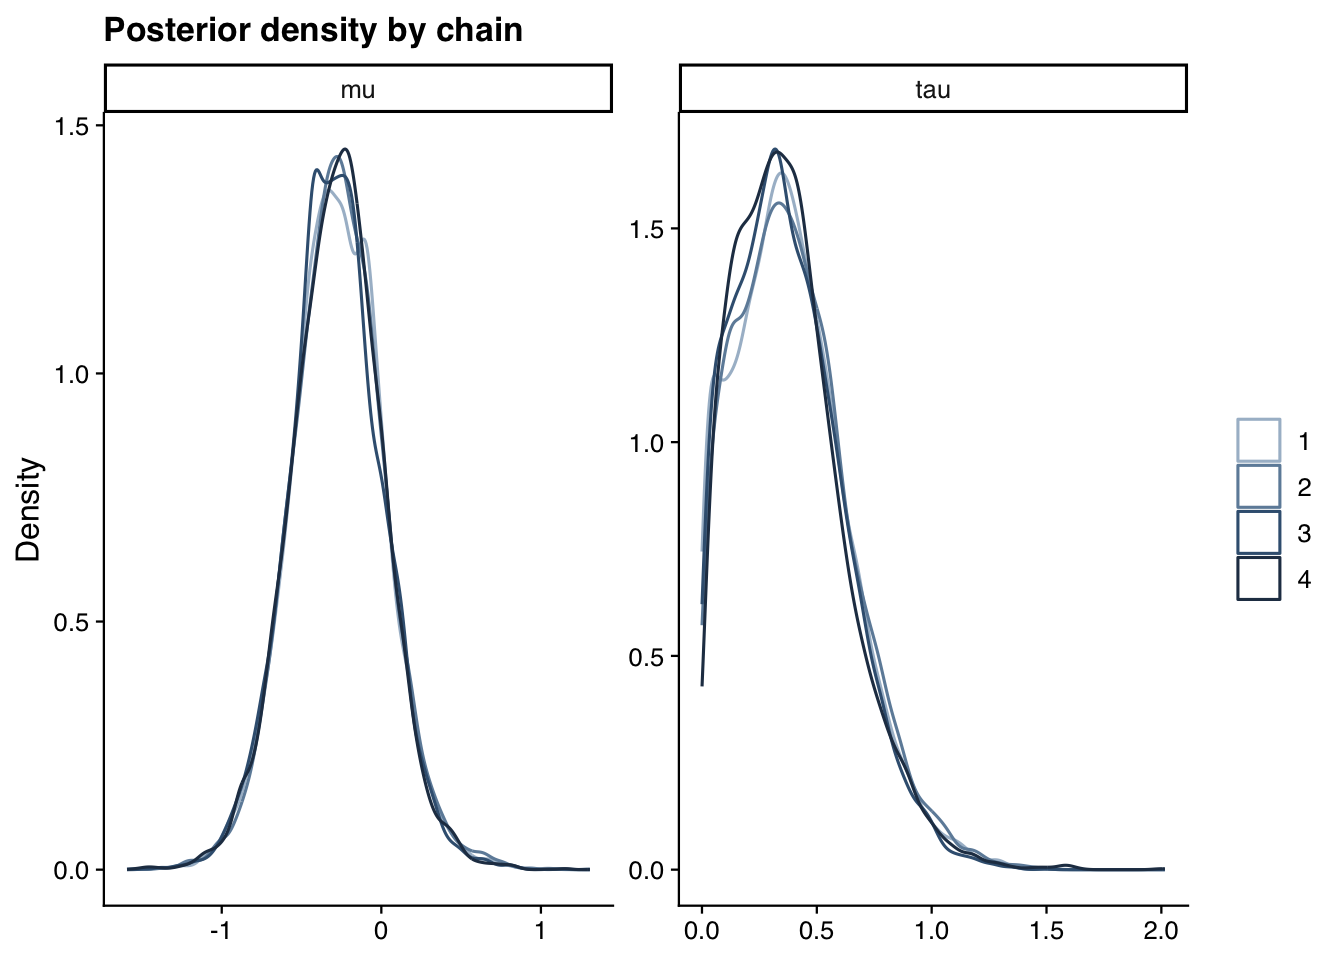
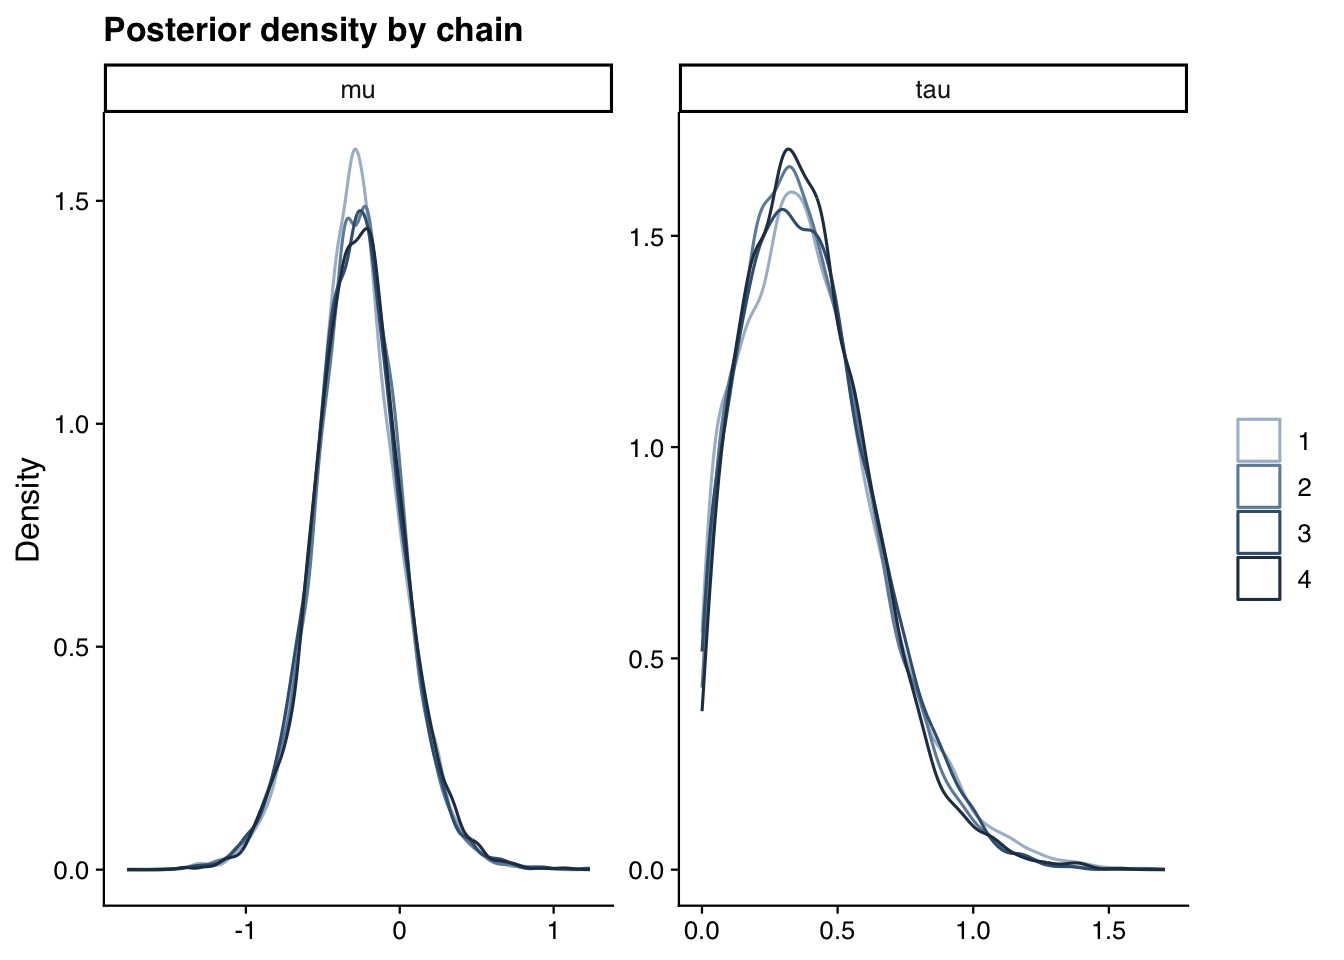
Built site for gh-pages

diff --git a/risk-of-bias.html b/risk-of-bias.html
@@ -389,19 +389,20 @@ Warning
 <span id="cb3-5"><a href="#cb3-5" aria-hidden="true" tabindex="-1"></a>         <span class="at">domain =</span> <span class="fu">factor</span>(domain, <span class="at">levels =</span> <span class="fu">names</span>(domain_labels), <span class="at">labels =</span> domain_labels),</span>
 <span id="cb3-6"><a href="#cb3-6" aria-hidden="true" tabindex="-1"></a>         <span class="at">study =</span> <span class="fu">factor</span>(study, <span class="at">levels =</span> <span class="fu">rev</span>(<span class="fu">c</span>(<span class="st">"Qi2025"</span>,<span class="st">"Xu2025"</span>,<span class="st">"Lu2017"</span>,<span class="st">"Jin2019"</span>,<span class="st">"Qi2023"</span>,<span class="st">"Li2024a"</span>))))</span>
 <span id="cb3-7"><a href="#cb3-7" aria-hidden="true" tabindex="-1"></a></span>
-<span id="cb3-8"><a href="#cb3-8" aria-hidden="true" tabindex="-1"></a>pal <span class="ot">&lt;-</span> <span class="fu">c</span>(<span class="at">Low =</span> jama_blue_grey[[<span class="st">"light"</span>]], <span class="at">Moderate =</span> jama_blue_grey[[<span class="st">"medium"</span>]],</span>
-<span id="cb3-9"><a href="#cb3-9" aria-hidden="true" tabindex="-1"></a>         <span class="at">Serious =</span> jama_blue_grey[[<span class="st">"steel"</span>]], <span class="at">Critical =</span> jama_blue_grey[[<span class="st">"accent"</span>]])</span>
-<span id="cb3-10"><a href="#cb3-10" aria-hidden="true" tabindex="-1"></a></span>
-<span id="cb3-11"><a href="#cb3-11" aria-hidden="true" tabindex="-1"></a><span class="fu">ggplot</span>(rob_long, <span class="fu">aes</span>(domain, study, <span class="at">fill =</span> judgment)) <span class="sc">+</span></span>
-<span id="cb3-12"><a href="#cb3-12" aria-hidden="true" tabindex="-1"></a>  <span class="fu">geom_tile</span>(<span class="at">color =</span> <span class="st">"white"</span>, <span class="at">linewidth =</span> <span class="dv">1</span>) <span class="sc">+</span></span>
-<span id="cb3-13"><a href="#cb3-13" aria-hidden="true" tabindex="-1"></a>  <span class="fu">geom_text</span>(<span class="fu">aes</span>(<span class="at">label =</span> <span class="fu">substr</span>(judgment, <span class="dv">1</span>, <span class="dv">1</span>),</span>
-<span id="cb3-14"><a href="#cb3-14" aria-hidden="true" tabindex="-1"></a>                <span class="at">color =</span> judgment <span class="sc">%in%</span> <span class="fu">c</span>(<span class="st">"Serious"</span>, <span class="st">"Critical"</span>)), <span class="at">size =</span> <span class="fl">3.4</span>, <span class="at">fontface =</span> <span class="st">"bold"</span>) <span class="sc">+</span></span>
-<span id="cb3-15"><a href="#cb3-15" aria-hidden="true" tabindex="-1"></a>  <span class="fu">scale_fill_manual</span>(<span class="at">values =</span> pal, <span class="at">name =</span> <span class="st">"Concern"</span>) <span class="sc">+</span></span>
-<span id="cb3-16"><a href="#cb3-16" aria-hidden="true" tabindex="-1"></a>  <span class="fu">scale_color_manual</span>(<span class="at">values =</span> <span class="fu">c</span>(<span class="st">`</span><span class="at">TRUE</span><span class="st">`</span> <span class="ot">=</span> <span class="st">"white"</span>, <span class="st">`</span><span class="at">FALSE</span><span class="st">`</span> <span class="ot">=</span> <span class="st">"#243B53"</span>), <span class="at">guide =</span> <span class="st">"none"</span>) <span class="sc">+</span></span>
-<span id="cb3-17"><a href="#cb3-17" aria-hidden="true" tabindex="-1"></a>  <span class="fu">labs</span>(<span class="at">x =</span> <span class="cn">NULL</span>, <span class="at">y =</span> <span class="cn">NULL</span>, <span class="at">title =</span> <span class="st">"Preliminary ROBINS-I traffic-light plot"</span>,</span>
-<span id="cb3-18"><a href="#cb3-18" aria-hidden="true" tabindex="-1"></a>       <span class="at">subtitle =</span> <span class="st">"Darker = higher concern; L/M/S/C = Low/Moderate/Serious/Critical"</span>) <span class="sc">+</span></span>
-<span id="cb3-19"><a href="#cb3-19" aria-hidden="true" tabindex="-1"></a>  <span class="fu">theme_jama</span>() <span class="sc">+</span></span>
-<span id="cb3-20"><a href="#cb3-20" aria-hidden="true" tabindex="-1"></a>  <span class="fu">theme</span>(<span class="at">axis.text.x =</span> <span class="fu">element_text</span>(<span class="at">angle =</span> <span class="dv">30</span>, <span class="at">hjust =</span> <span class="dv">1</span>))</span></code></pre></div><button title="Copy to Clipboard" class="code-copy-button"><i class="bi"></i></button></div>
+<span id="cb3-8"><a href="#cb3-8" aria-hidden="true" tabindex="-1"></a><span class="co"># Conventional risk-of-bias traffic-light colours (override the blue-grey palette here).</span></span>
+<span id="cb3-9"><a href="#cb3-9" aria-hidden="true" tabindex="-1"></a>pal <span class="ot">&lt;-</span> <span class="fu">c</span>(<span class="at">Low =</span> <span class="st">"#4CAF50"</span>, <span class="at">Moderate =</span> <span class="st">"#FBC02D"</span>, <span class="at">Serious =</span> <span class="st">"#E53935"</span>, <span class="at">Critical =</span> <span class="st">"#B71C1C"</span>)</span>
+<span id="cb3-10"><a href="#cb3-10" aria-hidden="true" tabindex="-1"></a>txt <span class="ot">&lt;-</span> <span class="fu">c</span>(<span class="at">Low =</span> <span class="st">"white"</span>, <span class="at">Moderate =</span> <span class="st">"#333333"</span>, <span class="at">Serious =</span> <span class="st">"white"</span>, <span class="at">Critical =</span> <span class="st">"white"</span>)</span>
+<span id="cb3-11"><a href="#cb3-11" aria-hidden="true" tabindex="-1"></a></span>
+<span id="cb3-12"><a href="#cb3-12" aria-hidden="true" tabindex="-1"></a><span class="fu">ggplot</span>(rob_long, <span class="fu">aes</span>(domain, study, <span class="at">fill =</span> judgment)) <span class="sc">+</span></span>
+<span id="cb3-13"><a href="#cb3-13" aria-hidden="true" tabindex="-1"></a>  <span class="fu">geom_tile</span>(<span class="at">color =</span> <span class="st">"white"</span>, <span class="at">linewidth =</span> <span class="dv">1</span>) <span class="sc">+</span></span>
+<span id="cb3-14"><a href="#cb3-14" aria-hidden="true" tabindex="-1"></a>  <span class="fu">geom_text</span>(<span class="fu">aes</span>(<span class="at">label =</span> <span class="fu">substr</span>(judgment, <span class="dv">1</span>, <span class="dv">1</span>), <span class="at">color =</span> judgment),</span>
+<span id="cb3-15"><a href="#cb3-15" aria-hidden="true" tabindex="-1"></a>            <span class="at">size =</span> <span class="fl">3.4</span>, <span class="at">fontface =</span> <span class="st">"bold"</span>) <span class="sc">+</span></span>
+<span id="cb3-16"><a href="#cb3-16" aria-hidden="true" tabindex="-1"></a>  <span class="fu">scale_fill_manual</span>(<span class="at">values =</span> pal, <span class="at">name =</span> <span class="st">"Concern"</span>) <span class="sc">+</span></span>
+<span id="cb3-17"><a href="#cb3-17" aria-hidden="true" tabindex="-1"></a>  <span class="fu">scale_color_manual</span>(<span class="at">values =</span> txt, <span class="at">guide =</span> <span class="st">"none"</span>) <span class="sc">+</span></span>
+<span id="cb3-18"><a href="#cb3-18" aria-hidden="true" tabindex="-1"></a>  <span class="fu">labs</span>(<span class="at">x =</span> <span class="cn">NULL</span>, <span class="at">y =</span> <span class="cn">NULL</span>, <span class="at">title =</span> <span class="st">"Preliminary ROBINS-I traffic-light plot"</span>,</span>
+<span id="cb3-19"><a href="#cb3-19" aria-hidden="true" tabindex="-1"></a>       <span class="at">subtitle =</span> <span class="st">"Green = low, yellow = moderate, red = serious, dark red = critical (L/M/S/C)"</span>) <span class="sc">+</span></span>
+<span id="cb3-20"><a href="#cb3-20" aria-hidden="true" tabindex="-1"></a>  <span class="fu">theme_jama</span>() <span class="sc">+</span></span>
+<span id="cb3-21"><a href="#cb3-21" aria-hidden="true" tabindex="-1"></a>  <span class="fu">theme</span>(<span class="at">axis.text.x =</span> <span class="fu">element_text</span>(<span class="at">angle =</span> <span class="dv">30</span>, <span class="at">hjust =</span> <span class="dv">1</span>))</span></code></pre></div><button title="Copy to Clipboard" class="code-copy-button"><i class="bi"></i></button></div>
 </details>
 <div class="cell-output-display">
 <div>

diff --git a/model-fit.html b/model-fit.html
@@ -333,15 +333,15 @@ Note
 <tbody>
 <tr class="odd">
 <td style="text-align: left;">mu (log-OR)</td>
-<td style="text-align: right;">1.000</td>
 <td style="text-align: right;">1.001</td>
-<td style="text-align: right;">5319</td>
+<td style="text-align: right;">1.002</td>
+<td style="text-align: right;">7448</td>
 </tr>
 <tr class="even">
 <td style="text-align: left;">tau</td>
 <td style="text-align: right;">1.001</td>
-<td style="text-align: right;">1.004</td>
-<td style="text-align: right;">2177</td>
+<td style="text-align: right;">1.001</td>
+<td style="text-align: right;">2280</td>
 </tr>
 </tbody>
 </table>
@@ -423,9 +423,9 @@ Note
 <tbody>
 <tr class="odd">
 <td style="text-align: left;">JAGS (MCMC)</td>
-<td style="text-align: right;">0.759</td>
-<td style="text-align: right;">0.428</td>
-<td style="text-align: right;">1.356</td>
+<td style="text-align: right;">0.758</td>
+<td style="text-align: right;">0.427</td>
+<td style="text-align: right;">1.358</td>
 </tr>
 <tr class="even">
 <td style="text-align: left;">bayesmeta (semi-analytic)</td>
